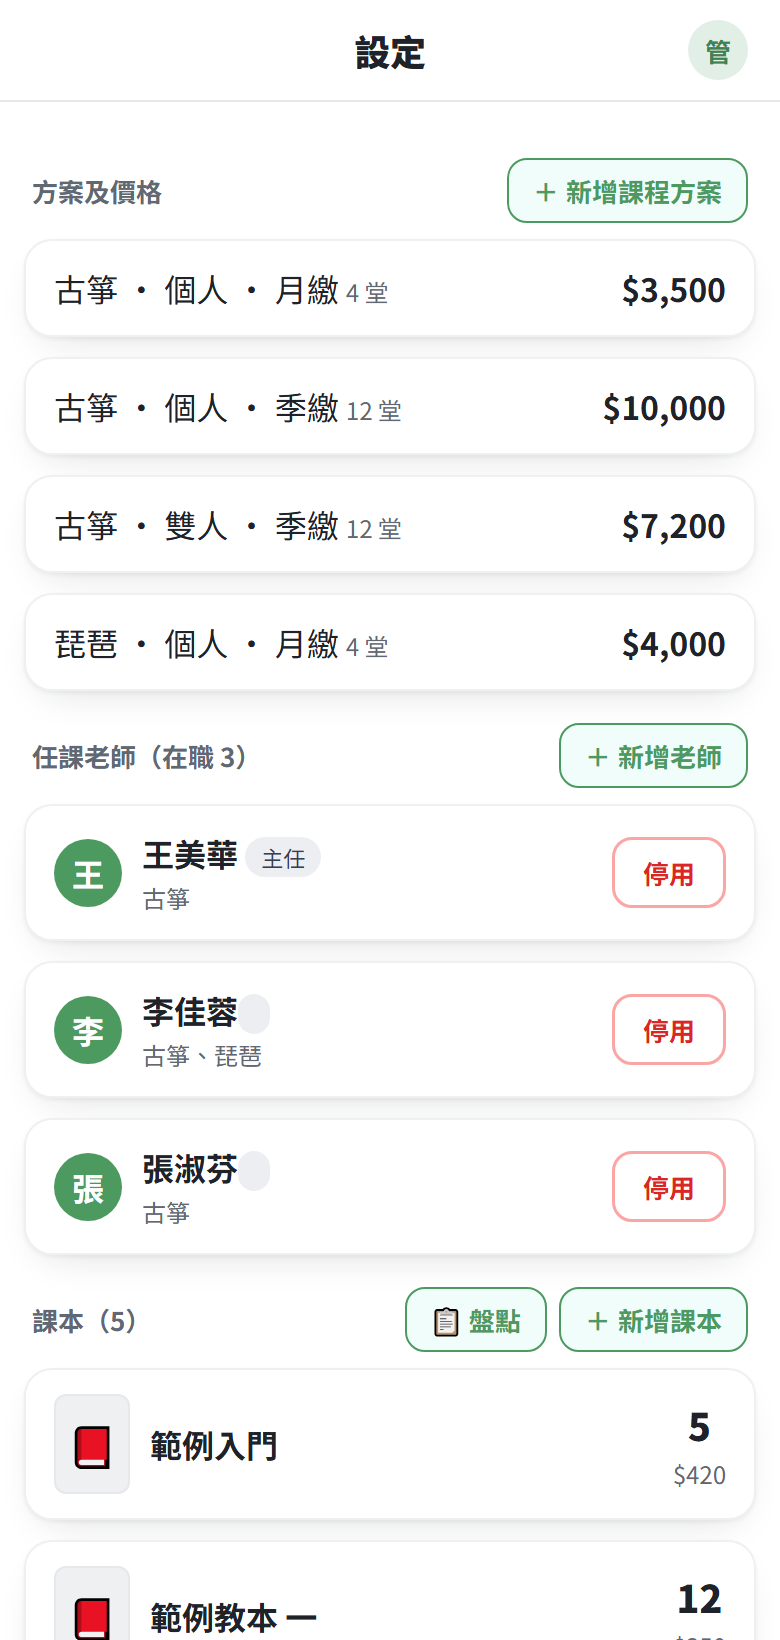
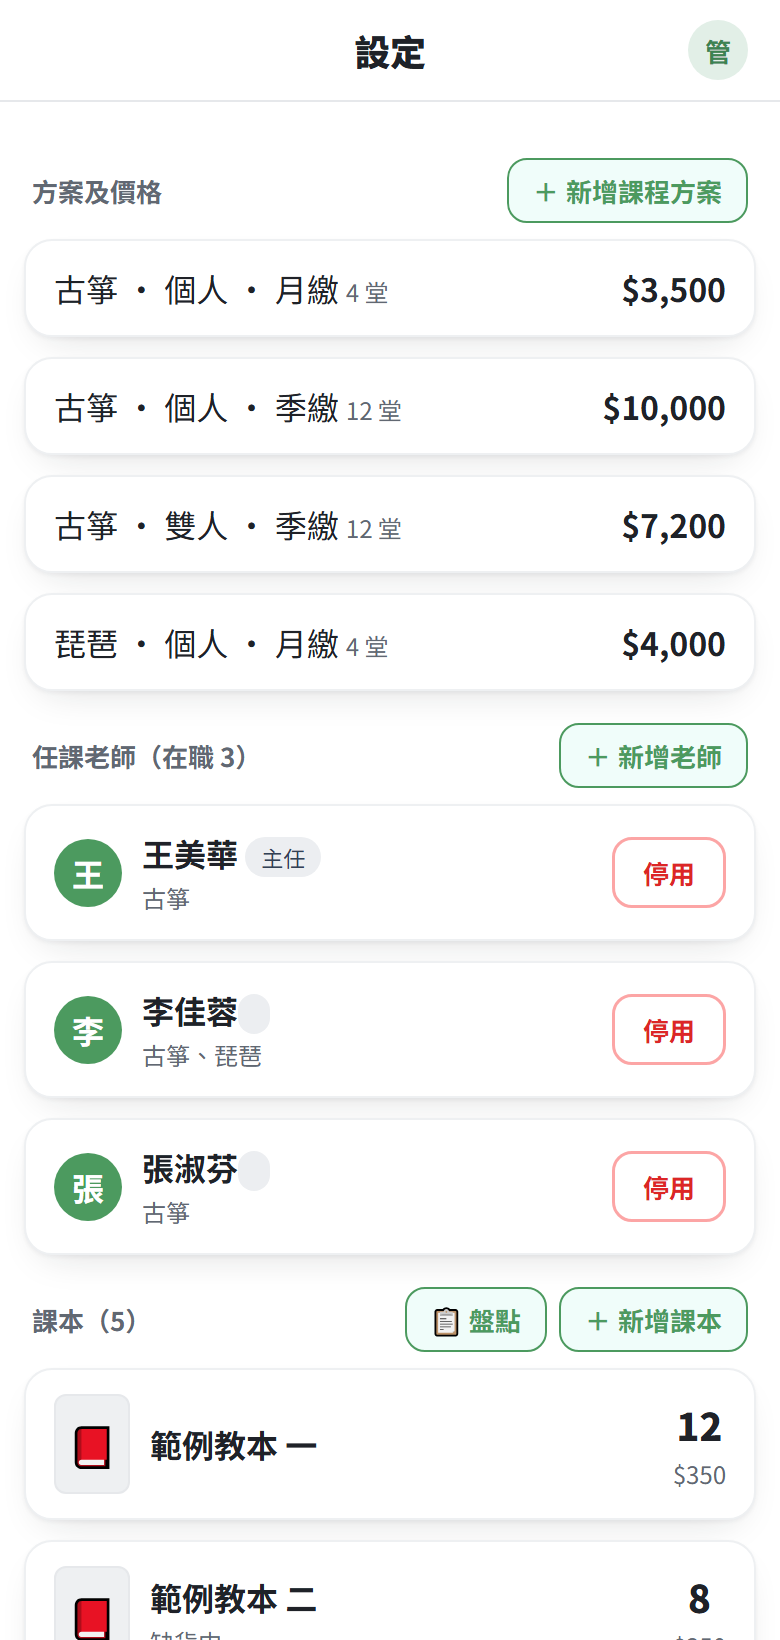
課本清單改照盤點表順序，不依書名排
盤點的時候手上拿著紙本盤點表，App 的清單順序跟它不一樣就很難對。
books 加一個 sort 欄位，由 tools/import_books.py 從 Excel 的列順序寫進去，
重跑一次會重新同步（以後改了 Excel 的排法再跑一次就好）。

- data.js 多一個共用的 byBookSort()，設定頁、桌機設定頁、盤點頁三處都改用它
- sort 是空的（App 裡新建、還沒排過的）排在最後面
- 在 App 裡新建課本時給 max(sort)+1
- 手冊 15-設定 那張圖跟著重拍（唯一的差異就是這個排序）

diff --git a/prototype/js/data.js b/prototype/js/data.js
@@ -19,8 +19,14 @@ function mapStudent(r){ return { id:r.id, t:r.teacher_id, name:r.name, inst:r.in
   deleted:!!r.deleted_at, stopped:r.stopped_at||null }; }
 function studentName(id){ const s=DB.students.find(x=>x.id===id); return s?s.name:''; }
 function mapBook(r){ return { id:r.id, name:r.name, price:r.price, qty:r.qty||0,
-  photo:r.photo_path||'', note:r.note||'',
+  photo:r.photo_path||'', note:r.note||'', sort:r.sort,
   active:r.active!==false, deleted:!!r.deleted_at }; }
+/* 課本清單一律照 books.sort（＝盤點表 Excel 的列順序），盤點時手上的紙本
+   才對得起來。sort 是空的（App 裡新建、還沒排過的）排在最後面。 */
+function byBookSort(a, b){
+  const x = a.sort == null ? Infinity : a.sort, y = b.sort == null ? Infinity : b.sort;
+  return x - y || a.name.localeCompare(b.name);
+}
 /* 盤點要走過的三個地方。書不綁定位置 —— 同一本常常分散在兩三個地方，
    綁上去那個標籤就會說謊。分區純粹是盤點時「別漏點」的動線，最後只看總數。 */
 const BOOK_AREAS = ['書架', '右教室', '左教室'];
@@ -94,7 +100,7 @@ async function loadAll(){
     sb.from('students').select('*').order('name'),
     sb.from('plans').select('*'),
     sb.from('rentals').select('*'),
-    sb.from('books').select('*').order('name')
+    sb.from('books').select('*').order('sort', { nullsFirst:false }).order('name')
   ]);
   if(tRes.error) throw tRes.error;
   DB.teachers = (tRes.data||[]).map(mapTeacher);

diff --git a/docs/手冊/mock.js b/docs/手冊/mock.js
@@ -61,11 +61,11 @@
   ];
 
   const BOOKS = [
-    { id: 'b1', name: '範例教本 一', price: 350, qty: 12, photo: '', note: '', active: true, deleted: false },
-    { id: 'b2', name: '範例教本 二', price: 350, qty: 8,  loc: '教室一 · 書櫃 A', photo: '', note: '缺貨中', active: true, deleted: false },
-    { id: 'b3', name: '範例教本 三', price: 380, qty: 6,  loc: '教室一 · 書櫃 A', photo: '', note: '', active: true, deleted: false },
-    { id: 'b4', name: '範例入門',   price: 420, qty: 5,  loc: '倉庫',           photo: '', note: '', active: true, deleted: false },
-    { id: 'b5', name: '範例練習簿', price: 180, qty: 0,  loc: '',               photo: '', note: '待補貨', active: true, deleted: false },
+    { id: 'b1', name: '範例教本 一', price: 350, qty: 12, sort: 1, photo: '', note: '', active: true, deleted: false },
+    { id: 'b2', name: '範例教本 二', price: 350, qty: 8,  sort: 2, photo: '', note: '缺貨中', active: true, deleted: false },
+    { id: 'b3', name: '範例教本 三', price: 380, qty: 6,  sort: 3, photo: '', note: '', active: true, deleted: false },
+    { id: 'b4', name: '範例入門',   price: 420, qty: 5,  sort: 4, photo: '', note: '', active: true, deleted: false },
+    { id: 'b5', name: '範例練習簿', price: 180, qty: 0,  sort: 5, photo: '', note: '待補貨', active: true, deleted: false },
   ];
 
   const PLAN_ROWS = [

diff --git a/prototype/js/view-settings.js b/prototype/js/view-settings.js
@@ -63,7 +63,7 @@ function toggleTeacher(id){
    書不綁定存放位置 —— 同一本常常分散在兩三個地方，綁上去那個標籤就會說謊。
    位置只在盤點時當動線用。桌機版在 js/desktop.js，改成表格。 */
 function booksSection(){
-  const list=DB.books.slice().sort((a,b)=>a.name.localeCompare(b.name));
+  const list=DB.books.slice().sort(byBookSort);
   const head=`<div class="set-head"><div class="section-title">課本（${list.length}）</div>
     <div class="row" style="gap:6px">
       ${list.length?`<button class="set-addbtn" onclick="openStocktake()">📋 盤點</button>`:''}

diff --git a/prototype/js/desktop.js b/prototype/js/desktop.js
@@ -314,7 +314,7 @@ function deskSettingAllowed(){
     ${ALLOWED.length?'':'<div class="meta set-note">＊白名單尚未啟用（請先在 Supabase 執行 C1 SQL）。</div>'}`;
 }
 function deskSettingBooks(){
-  const list=DB.books.slice().sort((a,b)=>a.name.localeCompare(b.name));
+  const list=DB.books.slice().sort(byBookSort);
   const head=`<div class="set-head"><div class="section-title">課本（${list.length}）</div>
       <span class="row" style="gap:8px">
         ${list.length?`<button class="set-addbtn" onclick="openStocktake()">📋 盤點</button>`:''}

diff --git a/prototype/js/modal-book.js b/prototype/js/modal-book.js
@@ -167,6 +167,8 @@ async function saveBook(){
     photo_path:m.photo||null, note:(m.note||'').trim()||null };
   if(m.isNew){
     rec.qty=m.qty||0;
+    // 排在現有清單最後面（順序本身是照盤點表匯入的，見 tools/import_books.py）
+    rec.sort=DB.books.reduce((n,b)=>Math.max(n, b.sort||0), 0)+1;
     const { data, error }=await sb.from('books').insert(rec).select().single();
     if(error){ toast('新增失敗：'+error.message); return; }
     DB.books.push(mapBook(data));

diff --git a/prototype/js/view-stocktake.js b/prototype/js/view-stocktake.js
@@ -65,7 +65,7 @@ function stockRowHtml(b){
 
 function stocktakeBody(){
   if(!DB.books.length) return `<div class="empty">尚未建立課本</div>`;
-  const list = DB.books.slice().sort((a,b)=>a.name.localeCompare(b.name));
+  const list = DB.books.slice().sort(byBookSort);
   return `<div class="chk-card">${list.map(stockRowHtml).join('')}</div>`;
 }
 

diff --git a/tools/import_books.py b/tools/import_books.py
@@ -3,13 +3,16 @@
 
     py tools/import_books.py "C:\\path\\書籍盤點表.xlsx"
 
-只讀「品項」那一欄的書名，其他欄位（售價、存放區域、數量）一律留白 ——
+只讀「品項」那一欄的書名，其他欄位（售價、數量）一律留白 ——
 盤點表裡本來就沒有這些資料，不猜。數量留 0，之後用 App 的盤點一次點進去。
 
+**順序**：App 裡的課本清單要跟 Excel 一樣，所以把檔案裡的列順序寫進 books.sort。
+重複執行會重新同步一次順序 —— 以後改了 Excel 的排法，再跑一次就好。
+
 性質：
-  - **冪等**：已經存在的書名會跳過，重複執行不會變成兩筆
-  - 只新增，不更新也不刪除任何既有資料
-  - 要還原：DELETE FROM books WHERE qty=0 AND price IS NULL AND location IS NULL;
+  - **冪等**：已經存在的書名不會重複新增（但 sort 會更新成檔案裡的順序）
+  - 不刪除任何既有資料，也不動售價、數量、封面、備註
+  - 要還原：DELETE FROM books WHERE qty=0 AND price IS NULL;
 
 ⚠ 這支會寫資料庫。日常查詢一律走 tools/db_select.py（唯讀）。
 ⚠ repo 是公開的：書名只從指令列傳進來的檔案讀，不寫進這支程式裡。
@@ -61,28 +64,33 @@ def main():
     dup = [n for n in names if n in exist]
 
     if dup:
-        print(f'已經在系統裡、這次跳過（{len(dup)} 本）：')
-        for n in dup:
-            print('  ·', n)
+        print(f'已經在系統裡的 {len(dup)} 本：只更新順序，其他欄位不動')
+    if todo:
         print()
-    if not todo:
-        print('沒有需要新增的書。')
-        return
-
-    print(f'要新增 {len(todo)} 本：')
-    for i, n in enumerate(todo, 1):
-        print(f'  {i:>3}. {n}')
+        print(f'要新增 {len(todo)} 本：')
+        for n in todo:
+            print('  ·', n)
 
     with connect() as conn:                      # 這裡「不」設 read_only
         with conn.cursor() as cur:
+            if todo:
+                cur.executemany(
+                    'INSERT INTO books (name, qty) VALUES (%s, 0)',
+                    [(n,) for n in todo])
+            # 順序＝檔案裡的列序（1 起算），讓 App 的清單跟 Excel 一樣
             cur.executemany(
-                'INSERT INTO books (name, qty) VALUES (%s, 0)',
-                [(n,) for n in todo])
+                'UPDATE books SET sort = %s WHERE name = %s AND deleted_at IS NULL',
+                [(i, n) for i, n in enumerate(names, 1)])
         conn.commit()
 
     _c, r = query('SELECT count(*) FROM books WHERE deleted_at IS NULL')
-    print(f'\n✅ 已新增 {len(todo)} 本，books 目前共 {r[0][0]} 本')
-    print('   售價、存放區域、封面都留白；數量 0 —— 用 App 的「📋 盤點」一次點進去。')
+    print()
+    print(f'✅ 新增 {len(todo)} 本、順序同步 {len(names)} 本，books 目前共 {r[0][0]} 本')
+    _c, r = query("""SELECT sort, name FROM books WHERE deleted_at IS NULL
+                     ORDER BY sort NULLS LAST, name LIMIT 4""")
+    print('   排序後的前幾筆：')
+    for i, n in r:
+        print(f'     {i}. {n}')
 
 
 if __name__ == '__main__':

diff --git a/功能說明.md b/功能說明.md
@@ -47,7 +47,7 @@ js/
 | **teachers** | name, role(主任/老師), instruments(text[]), active, sort |
 | **students** | name, teacher_id, instrument, class_type, plan(月繳/季繳), attended(已上堂數), last_pay_date, last_pay_amount, status(在學/新生/停課/待確認/退學), **deleted_at(註記刪除，有值就不載入)**, note, checked, notified, contact(未用), prepay_amount(未用), partner_id(雙人組配對，雙向) |
 | **plans** | instrument, class_type, billing(月繳/季繳), sessions, price（unique 樂器×班型×繳別） |
-| **books** | name, price, qty(目前數量，總數), photo_path(Storage 路徑), note, active, **deleted_at** |
+| **books** | name, price, qty(目前數量，總數), sort(清單順序，照盤點表), photo_path(Storage 路徑), note, active, **deleted_at** |
 | **book_moves** | book_id, kind(進貨/盤點), move_date, qty_before, qty_after, note（課本數量異動流水） |
 
 | **payments** | student_id, billing, periods, amount, pay_date（每筆繳費 log） |
@@ -171,7 +171,11 @@ js/
 - 繳費編輯入口共三處：此頁、報表明細列、學生 modal 的繳費歷史列。
 
 ### 課本（在設定頁）
-- **主檔**：名稱、售價、封面照片、備註。清單依書名排（桌機表格、手機卡片列）。
+- **主檔**：名稱、售價、封面照片、備註。桌機是表格、手機是卡片列。
+- **清單順序照紙本盤點表**（`books.sort`），不是依書名排 —— 盤點時手上拿著那張表，
+  順序一致才對得起來。順序由 `tools/import_books.py` 從 Excel 的列順序寫進去，
+  重跑一次就重新同步（改了 Excel 的排法再跑即可）。
+  在 App 裡新建的課本排到最後面。
 - **數量只有一個真相來源**：`books.qty` 永遠等於 `book_moves` 最後一筆的 `qty_after`。
   編輯畫面的數量是**唯讀**，要改只能走進貨（第 2 期再加盤點）。建檔時填的數量會記成第一筆進貨。
 - **記一筆進貨**：進幾本／進貨日／備註 → 寫一筆 `book_moves(kind='進貨')` 並更新數量。
